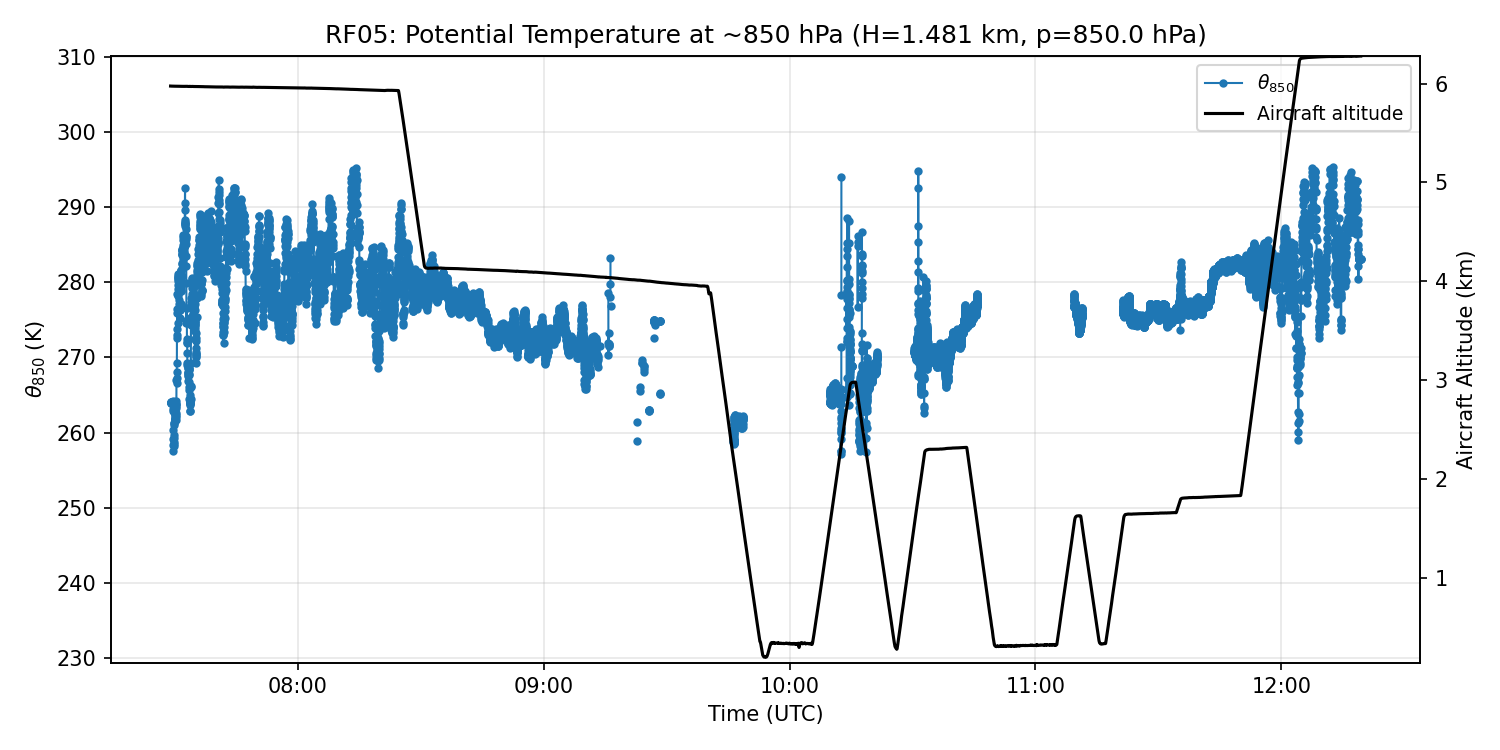
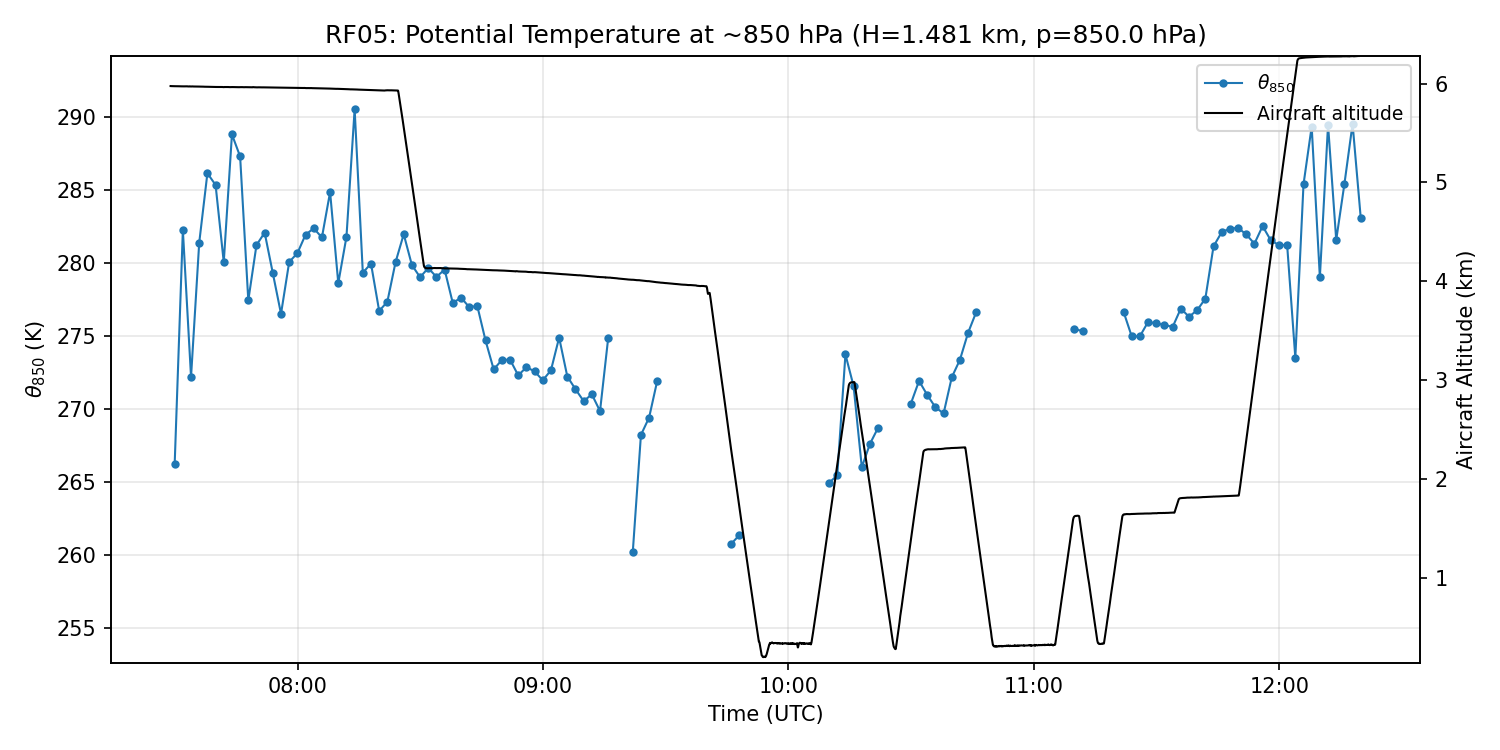
regrid potential temp

diff --git a/src/638-021/potential_temperature.py b/src/638-021/potential_temperature.py
@@ -7,9 +7,8 @@ import os
 import matplotlib.pyplot as plt
 import numpy as np
 
-from nc.flights import FLIGHTS, MARLI_FILES
+from nc.flights import MARLI_FILES
 from nc.loader import DATASET_VARS, PROJECT_ROOT, open_dataset
-from nc.time import utc_hours_to_datetime64
 
 _vars = DATASET_VARS["638-021"]
 ALTITUDE = _vars["altitude"]
@@ -21,6 +20,7 @@ FILL_VALUE = 9999.0
 P_850 = 850  # hPa
 
 MAD_K = 5.0  # multiplier for MAD
+TEMPORAL_RESOLUTION = 60 * 2  # seconds
 
 
 def mask_temperature_outliers(T: np.ndarray, k: float = MAD_K) -> np.ndarray:
@@ -93,6 +93,35 @@ def _extract_theta_850(ds) -> tuple[np.ndarray, np.ndarray, float, float]:
     return time, theta, h_actual, p_actual
 
 
+def regrid_timeseries(
+        time_hours: np.ndarray,
+        data: np.ndarray,
+        dt_seconds: float,
+) -> tuple[np.ndarray, np.ndarray]:
+    """
+    Regrid time series to uniform temporal resolution (of dt_seconds) using block averaging.
+    """
+    dt_hours = dt_seconds / 3600.0
+
+    # create uniform grid from min to max time
+    t_min = np.nanmin(time_hours)
+    t_max = np.nanmax(time_hours)
+    time_edges = np.arange(t_min, t_max + dt_hours, dt_hours)
+    time_regrid = time_edges[:-1] + dt_hours / 2  # bin centers
+
+    # bin data and compute mean in each bin
+    data_regrid = np.full(len(time_regrid), np.nan)
+    for i in range(len(time_regrid)):
+        mask = (time_hours >= time_edges[i]) & (time_hours < time_edges[i + 1])
+        bin_data = data[mask]
+        valid_data = bin_data[~np.isnan(bin_data)]
+
+        if len(valid_data) > 0:
+            data_regrid[i] = np.mean(valid_data)
+
+    return time_regrid, data_regrid
+
+
 def compute_theta_850(flight: str) -> dict:
     filenames = MARLI_FILES[flight]
 
@@ -112,33 +141,47 @@ def compute_theta_850(flight: str) -> dict:
             h_actual = h
             p_actual = p
 
-    time_hours = np.concatenate(all_time)
-    theta_850 = np.concatenate(all_theta)
-    altitude = np.concatenate(all_alt)
+    time_hours_native = np.concatenate(all_time)
+    theta_850_native = np.concatenate(all_theta)
+    altitude_native = np.concatenate(all_alt)
 
-    date_str = FLIGHTS[flight]
-    time_dt = utc_hours_to_datetime64(time_hours, date_str)
+    time_hours_regrid, theta_850_regrid = regrid_timeseries(
+        time_hours_native, theta_850_native, TEMPORAL_RESOLUTION
+    )
 
     return {
-        "time": time_dt,
-        "time_utc_hours": time_hours,
-        "theta_850": theta_850,
-        "altitude": altitude,
+        "time_utc_hours": time_hours_native,
+        "theta_850": theta_850_regrid,
+        "time_regrid_utc_hours": time_hours_regrid,
+        "altitude": altitude_native,
         "h_850": h_actual,
         "p_850": p_actual,
     }
 
 
-def plot_theta_850(flight: str, result: dict, theta_lim: tuple, alt_lim: tuple) -> str:
+def plot_theta_850(
+        flight: str,
+        result: dict,
+        theta_lim: tuple,
+        alt_lim: tuple,
+) -> str:
     os.makedirs(PLOTS_DIR, exist_ok=True)
     out_path = os.path.join(PLOTS_DIR, f"{flight.lower()}_theta850.png")
 
-    time = result["time_utc_hours"]
+    time_regrid = result["time_regrid_utc_hours"]
     theta = result["theta_850"]
+    time_native = result["time_utc_hours"]
     alt = result["altitude"]
 
     fig, ax = plt.subplots(figsize=(10, 5))
-    ax.plot(time, theta, marker="o", markersize=3, linewidth=1, label="$\\theta_{850}$")
+    ax.plot(
+        time_regrid,
+        theta,
+        marker="o",
+        markersize=3,
+        linewidth=1,
+        label="$\\theta_{850}$",
+    )
     ax.xaxis.set_major_formatter(
         plt.FuncFormatter(lambda h, _: f"{int(h):02d}:{int((h % 1) * 60):02d}")
     )
@@ -147,7 +190,7 @@ def plot_theta_850(flight: str, result: dict, theta_lim: tuple, alt_lim: tuple) 
     ax.set_ylim(theta_lim)
 
     ax2 = ax.twinx()
-    ax2.plot(time, alt, color="black", linewidth=1.5, label="Aircraft altitude")
+    ax2.plot(time_native, alt, color="black", linewidth=1.0, label="Aircraft altitude")
     ax2.set_ylabel("Aircraft Altitude (km)")
     ax2.set_ylim(alt_lim)
 
